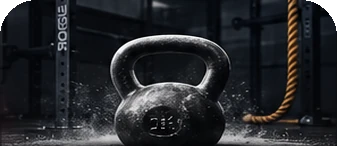
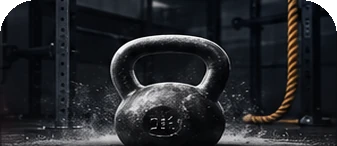
Carrera más natural en las figuras 3D y CrossFit sin la marca del rack
La carrera del lote 8 (en la calle, en la cinta, en cuesta y con chaleco) es ahora la de un trote de
verdad, como pidió el propietario: unas 162 zancadas por minuto (antes 133); el pie cae algo por
delante de la cadera con la rodilla apenas doblada; la cadera baja hasta media pisada y sube en el
vuelo; el pie despega por la punta muy por detrás con la pierna casi estirada; en el aire, el talón
sube hacia el glúteo, el muslo tira hacia delante y la pierna se estira antes de caer, volviendo un
poco hacia atrás a la velocidad del suelo. El recorrido del pie sale de los ángulos de cadera y rodilla
de una carrera suave. Los brazos van en el marco del tronco, con el codo más cerrado delante (la mano,
a la altura del pecho y algo hacia el centro) que detrás. La cadera se limita con las dos piernas
(al despegar daba un saltito). La marcha no cambia.

- src/fig3d/cardio3d.js: runGait, runHip y runArms nuevos; encuadres y huella rehechos.
- Comprobado con tools/figuras3d: verifica, choques, saltos y grosor, sin avisos en los 50 ejercicios.
- La ilustración de CrossFit de la librería, sin «ROGUE» en el poste del rack: tools/catalogo.py lo
  quita antes de comprimir.
- Documentación (figuras, desarrollo) y CHANGELOG.

Claude-Session: https://claude.ai/code/session_01HNdNhADazebudbtuCM24DN

Changed region(s): [[0.1484, 0.0274, 0.2077, 0.3562]]

diff --git a/src/fig3d/cardio3d.js b/src/fig3d/cardio3d.js
@@ -14,47 +14,84 @@
   const { cos, sin, PI, abs, max, min, sqrt, atan2, pow } = Math;
 
   /* ════ correr y andar ════ */
-  /* la zancada de carrera, en el sitio: cada pie apoya una parte de la vuelta (st) yendo hacia atrás bajo la cadera, de
-     z0 + S/2 a z0 - S/2, despega por la punta, sube por detrás (el talón hacia el glúteo) y vuelve adelante con la rodilla
-     arriba hasta caer otra vez con el medio del pie. Entre un apoyo y otro, los dos pies en el aire (la fase de vuelo).
-     slope: la pendiente del suelo (tan), que sube hacia delante; y0: la altura del suelo en z = 0 */
+  /* la zancada de carrera, en el sitio (como en una cinta), con las medidas de un trote de verdad: unas 160 zancadas por minuto
+     y cada pie en el suelo algo menos de dos quintos de la vuelta (st), así que entre un apoyo y otro van los dos en el aire.
+     El pie cae algo por delante de la cadera (zOn), con el medio del pie y la rodilla apenas doblada; va hacia atrás con el
+     suelo (S: lo que recorre apoyado) mientras la cadera baja hasta media pisada (la rodilla, a unos 40°) y vuelve a subir;
+     el talón se despega pasada la mitad y el pie sale por la punta muy por detrás, con la pierna casi estirada. En el aire, el
+     pie sigue un momento hacia atrás y sube por detrás hacia el glúteo (la rodilla, a unos 95°: el talón, a la altura de la
+     otra rodilla), el muslo tira hacia delante con la rodilla arriba y la pierna se estira por delante; antes de caer, el pie
+     vuelve un poco hacia atrás, a la velocidad del suelo, para no frenar. Las alturas del tobillo y su recorrido en el aire
+     salen de los ángulos de cadera y rodilla de una carrera suave (de la pierna de 89 + 84 del modelo); hk escala lo que sube
+     el talón. slope: la pendiente del suelo (tan), que sube hacia delante; y0: la altura del suelo en z = 0 */
+  const RUN_SWING = {
+    /* (en el aire, v de 0 a 1: el recorrido, en partes del de apoyo (0: donde despega; 1: donde cae); la altura del tobillo
+       sobre el suelo, y la inclinación del pie: la punta hacia abajo con el talón arriba, y plano al caer) */
+    f: [[.15, -.17], [.3, -.065], [.45, .2], [.6, .555], [.75, 1.02], [.9, 1.09]],
+    h: [[.15, 62], [.3, 92], [.45, 86], [.6, 55], [.75, 33], [.9, 23.5]],
+    p: [[0, 42], [.15, 66], [.3, 82], [.45, 74], [.6, 46], [.75, 16], [.9, -2], [1, 0]]
+  };
+  /* (curva de Hermite que pasa por los puntos K ([v, valor]), con la pendiente de Catmull-Rom dentro y las de los extremos que
+     se den: así el pie sale y llega a la velocidad que lleva) */
+  const hermPts = (v, K, m0, m1) => {
+    let i = 1; while (i < K.length - 1 && K[i][0] < v) i++;
+    const sl = j => j == 0 ? m0 : j == K.length - 1 ? m1 : (K[j + 1][1] - K[j - 1][1]) / (K[j + 1][0] - K[j - 1][0]);
+    const [x0, a] = K[i - 1], [x1, b] = K[i], h = x1 - x0;
+    return FL.herm((v - x0) / h, a, b, sl(i - 1) * h, sl(i) * h);
+  };
   const runGait = (t, o = {}) => {
-    const S = o.S ?? 76, w = o.w ?? 13, toe = o.toe ?? 4, st = o.st ?? .36, hk = o.hk ?? 46, z0 = o.z0 ?? 0, slope = o.slope ?? 0, y0 = o.y0 ?? 0;
-    const feet = {}, knee = {}, ank = {}, on = {};
+    const S = o.S ?? 120, zOn = o.zOn ?? 32, w = o.w ?? 10, toe = o.toe ?? 4, st = o.st ?? .38, hk = o.hk ?? 1, slope = o.slope ?? 0, y0 = o.y0 ?? 0;
+    const P_OFF = 42, feet = {}, knee = {}, ank = {}, on = {};
     for (const [s, ph] of [['L', 0], ['R', .5]]) {
       const u = ((t + ph) % 1 + 1) % 1, x = s == 'L' ? w : -w;
-      let z, lift, p;
-      if (u < st) { const v = u / st; z = z0 + S / 2 - S * v; lift = 0; p = v < .7 ? -3 + 6 * v : 1 + 44 * ((v - .7) / .3) ** 1.5; on[s] = true; }
+      let A, p;
+      if (u < st) {
+        /* (apoyado: el medio del pie, plano; pasada la mitad, el talón se levanta y el pie gira sobre la bola hasta despegar) */
+        const v = u / st;
+        p = v < .55 ? 0 : P_OFF * ((v - .55) / .45) ** 1.4;
+        A = FL.footPose(x, zOn - S * v, p); on[s] = true;
+      }
       else {
-        const v = (u - st) / (1 - st);
-        /* (el pie sale hacia atrás a la velocidad del suelo, vuelve por delante y llega frenando hacia atrás, a la misma
-           velocidad: sin cambios bruscos al despegar ni al apoyar) */
-        const m = -S * (1 - st) / st;
-        z = FL.herm(v, z0 - S / 2, z0 + S / 2, m, m);
-        lift = spl(v, [[0, 0], [.25, hk * .85], [.45, hk], [.75, hk * .45], [1, 0]]);
-        p = spl(v, [[0, 45], [.3, 40], [.7, 10], [1, -3]]);
+        const v = (u - st) / (1 - st), A0 = FL.footPose(x, zOn - S, P_OFF), dz = zOn - A0[2], m = -S * (1 - st) / st;
+        const z = hermPts(v, [[0, A0[2]], ...RUN_SWING.f.map(([k, f]) => [k, A0[2] + dz * f]), [1, zOn]], m, m);
+        const H = [[0, A0[1]], ...RUN_SWING.h.map(([k, y]) => [k, LEN.ankle + (y - LEN.ankle) * hk]), [1, LEN.ankle]];
+        p = spl(v, RUN_SWING.p);
+        A = [x, hermPts(v, H, (H[1][1] - H[0][1]) / H[1][0], (H[H.length - 1][1] - H[H.length - 2][1]) / (1 - H[H.length - 2][0])), z];
         on[s] = false;
       }
-      /* (el tobillo: sobre el suelo, que puede ir en cuesta, y siempre según la inclinación del pie: con el talón levantado, la
-         punta queda apoyada; en el aire, sigue igual, sin saltos al despegar) */
-      const yF = y0 + z * slope, A = FL.footPose(x, z, p);
-      feet[s] = [abs(x), A[2], toe, yF + lift + (A[1] - LEN.ankle), p]; knee[s] = [sin(RAD(toe)), 0, cos(RAD(toe))];
-      ank[s] = [x, yF + lift + A[1], A[2]];
+      /* (el tobillo, sobre el suelo, que puede ir en cuesta) */
+      const yF = y0 + A[2] * slope;
+      feet[s] = [abs(x), A[2], toe, yF + A[1] - LEN.ankle, p]; knee[s] = [sin(RAD(toe)), 0, cos(RAD(toe))];
+      ank[s] = [x, yF + A[1], A[2]];
     }
     return { feet, knee, ank, on };
   };
-  /* los brazos al correr: los codos doblados a 90° y las manos que van y vienen a la altura de la cintura, al revés que las
-     piernas */
+  /* la altura de la cadera al correr, en cada paso (ph: de 0, cuando cae un pie, a 1, cuando cae el otro): baja desde que cae
+     hasta media pisada, sube hasta que despega y algo más en el vuelo, y baja otra vez hasta caer. Sin estirar nunca del todo
+     la pierna que apoya (capRoot) */
+  const runHip = (ph, st, base) => {
+    const lo = .4 * st / .5, off = st / .5, fly = (off + 1) / 2;
+    return base + spl(ph, [[fly - 1, 5], [0, 2], [lo, -4], [off, 1.5], [fly, 5], [1, 2], [1 + lo, -4]]);
+  };
+  /* los brazos al correr: el hombro lleva el brazo adelante y atrás, al revés que la pierna de su lado, con el codo doblado:
+     más cerrado delante, donde la mano sube hasta la altura del pecho y algo hacia el centro (sin cruzarlo), y más abierto
+     detrás, donde la mano baja junto a la cadera. Todo en el marco del tronco, que se inclina y gira al revés que la cadera:
+     los brazos van con él. La muñeca, recta, en la línea del antebrazo, y las manos sueltas, a medio cerrar */
   const runArms = (F, q, t, amp = 1) => {
-    const o = { hands: {}, elbow: {} };
-    /* (cada brazo, al revés que su pierna y a la vez que ella: el izquierdo, atrás cuando el pie izquierdo apoya delante; la
-       mano sube hasta el pecho por delante y baja hasta la cadera por detrás, con el codo doblado) */
-    for (const [s, ph] of [['L', .5], ['R', 0]]) {
-      const a = cos(2 * PI * (t + ph)), S = shoulder(F, s, q);
-      o.hands[s] = add(S, sd(s, [-7 + 7 * max(0, -a), -96 + 22 * a * amp, 14 + 44 * a * amp]));
-      o.elbow[s] = [.25, -.3, -1];
+    const o = { hands: {}, elbow: {}, handDir: {} }, T = F.thorax, loc = v => add(add(mul(T.x, v[0]), mul(T.y, v[1])), mul(T.z, v[2]));
+    const LU = LEN.upper, LFG = LEN.fore + LEN.grip, ABD = RAD(10);
+    for (const [s, ph] of [['L', .42], ['R', .92]]) {
+      /* (a: 1 con el brazo delante, -1 detrás; el izquierdo llega delante cuando la pierna izquierda despega por detrás) */
+      const a = cos(2 * PI * (t - ph)), fw = max(0, a);
+      const th = RAD(-11 + 19 * a * amp), el = RAD(81 - 23 * a), inw = RAD(6 + 22 * fw), be = th + PI - el;
+      /* (el brazo, algo separado del costado; el antebrazo, girado hacia delante lo que se dobla el codo) */
+      const u = [sin(ABD), -cos(ABD) * cos(th), cos(ABD) * sin(th)], f = [-sin(inw), -cos(inw) * cos(be), cos(inw) * sin(be)];
+      const hand = add(mul(u, LU), mul(f, LFG));
+      o.hands[s] = add(shoulder(F, s, q), loc(sd(s, hand)));
+      o.handDir[s] = loc(sd(s, f));
+      o.elbow[s] = [.35, -.3, -1];
     }
-    return { ...o, fist: false, palm: both(() => [-1, 0, .2]), handDir: both(sd2 => norm(sd(sd2, [-.25, .15, 1]))) };
+    return { ...o, fist: false, palm: both(() => [-1, 0, .2]) };
   };
   /* andando: los brazos sueltos, casi estirados, al revés que las piernas */
   const walkArms = (F, q, t, amp = 1) => {
@@ -82,7 +119,10 @@
     const w = x => has(f, x), walk = w('walk'), tm = w('treadmill'), incline = w('incline'), pack = w('pack'), vest = w('vest');
     /* la pendiente: en la cinta, 7° (12 %); en la calle, una cuesta de 9° */
     const slope = incline ? Math.tan(RAD(tm ? 7 : 9)) : 0, y0 = tm ? TM_Y + 2 : 0;
-    const T = walk ? (pack ? 1500 : 1350) : 900;
+    /* (andando, una vuelta de 1,35 s (con mochila, 1,5 s); corriendo, de 0,74 s: unas 162 zancadas por minuto) */
+    const T = walk ? (pack ? 1500 : 1350) : 740;
+    /* (corriendo en cuesta: la zancada, algo más corta, y el pie cae más bajo la cadera; el talón sube algo menos) */
+    const RS = incline ? { S: 100, zOn: 26, st: .4, hk: .92 } : { S: 120, zOn: 32, st: .38, hk: 1 };
     const at_ = t => {
       const ph = 2 * PI * t;
       let g, ry;
@@ -94,21 +134,25 @@
         ry = hipOver(g.ank, ROOT_Y + y0 - 1);
       }
       else {
-        g = runGait(t, { S: incline ? 92 : 112, st: incline ? .4 : .36, hk: incline ? 46 : 56, slope, y0 });
-        /* (la cadera: más baja a mitad de cada apoyo, más alta en el vuelo; sin estirar nunca la pierna que apoya) */
-        const top = ROOT_Y + y0 - 8 + 5 * cos(4 * PI * (t - (.36 + (.5 - .36) / 2)));
-        const stance = ['L', 'R'].filter(s => g.on[s]).map(s => [g.ank[s], s == 'L' ? 20 : -20]);
-        ry = stance.length ? C.capRoot([0, top, 0], stance)[1] : top;
+        g = runGait(t, { ...RS, slope, y0 });
+        /* (la cadera: la de cada paso (runHip), más baja a media pisada y más alta en el vuelo; sin estirar nunca del todo la
+           pierna que apoya) */
+        const top = runHip(((t % .5) + .5) % .5 / .5, RS.st, ROOT_Y + y0 - 4);
+        /* (con las dos piernas, también la que va en el aire: si solo contara la que apoya, al despegar dejaba de contar de
+           golpe y la cadera daba un saltito) */
+        ry = C.capRoot([0, top, 0], [[g.ank.L, 20], [g.ank.R, -20]])[1];
       }
       /* (el tronco, algo adelante; más en cuesta y con mochila; gira un poco con cada zancada) */
-      const lean = (walk ? 2 : 7) + (incline ? 6 : 0) + (pack ? 6 : 0);
-      /* (la cadera gira con la pierna que va delante y los hombros, al revés, con el brazo) */
-      const c = cos(ph), q = { tt: t, feet: g.feet, knee: g.knee, root: [1.5 * sin(ph), ry, 0], tilt: lean, spine: walk ? 0 : 2, neck: -lean * .6, shrug: 2, reach: 2, yaw: -(walk ? 3 : 5) * c, twist: (walk ? 7 : 12) * c, roll: 1.5 * sin(ph) };
+      const lean = (walk ? 2 : 6) + (incline ? 6 : 0) + (pack ? 6 : 0);
+      /* (la cadera gira con la pierna que va delante y los hombros, al revés, con el brazo; corriendo, la pelvis va algo hacia
+         el pie que apoya y cae un poco del lado de la pierna en el aire; la cabeza, quieta y mirando al frente) */
+      const c = cos(ph), q = walk ? { tt: t, feet: g.feet, knee: g.knee, root: [1.5 * sin(ph), ry, 0], tilt: lean, spine: 0, neck: -lean * .6, shrug: 2, reach: 2, yaw: -3 * c, twist: 7 * c, roll: 1.5 * sin(ph) }
+        : { tt: t, feet: g.feet, knee: g.knee, root: [2.2 * sin(ph), ry, 0], tilt: lean, spine: 2, neck: -lean * .75, shrug: 1, reach: 2, yaw: -6 * cos(ph + .3), twist: 11 * cos(ph + .3), roll: 2.5 * sin(ph) };
       const { F } = pose({ ...q, hands: ZERO, elbow: {} });
       return { ...q, ...(walk ? walkArms(F, q, t, pack ? .6 : 1) : runArms(F, q, t)) };
     };
     /* (lo que corre el suelo, o la banda de la cinta, en una vuelta: lo que recorre el pie de apoyo) */
-    const V = walk ? (pack ? 92 : 104) / .62 : (incline ? 92 : 112) / (incline ? .4 : .36);
+    const V = walk ? (pack ? 92 : 104) / .62 : RS.S / RS.st;
     const gear = (q, F, cam) => {
       const out = [];
       if (tm) out.push(...treadmill(cam, slope), ...FL.floorRun(cam, q.tt, V, { z0: -30, half: 96, x: 30, y0: TM_Y + 4.4, slope, z: -1e6 + 1, n: max(2, Math.round(V / 48)) }));

diff --git a/src/js/data/figboxes.js b/src/js/data/figboxes.js
@@ -4,7 +4,7 @@
    dibujar cada figura trece veces para saber lo que ocupa. De cada ejercicio: el recuadro [x, y, ancho, alto] del gesto
    entero, el momento de la miniatura y su recuadro, el recuadro de las posturas quietas y los momentos de esas posturas. Va
    con el motor, en lo que se descarga al usarlo (core/lazy).
-   Huella de lo calculado: 464a8a6735614465cdc8
+   Huella de lo calculado: 319a07c798d03049bb2d
    Define: FIG_BOXES
 */
 export const FIG_BOXES = {
@@ -457,10 +457,10 @@ export const FIG_BOXES = {
   "Sandbag carry al hombro": [-67, -385, 159, 399, 0.667, -67, -384, 144, 397, -67, -384, 158, 398, 0, 0.292, 0.667],
   "Sandbag squat": [-75, -386, 170, 401, 1, -75, -258, 165, 273, -75, -386, 165, 401, 0, 1],
   "Bear hug carry": [-67, -385, 159, 399, 0.667, -67, -384, 156, 397, -67, -384, 158, 398, 0, 0.292, 0.667],
-  "Carrera 1 km": [-65, -383, 173, 394, 0.417, -62, -383, 163, 394, -62, -383, 163, 394, 0, 0.417, 0.708],
-  "Carrera 1 km con chaleco": [-65, -383, 173, 394, 0.417, -62, -383, 163, 394, -62, -383, 163, 394, 0, 0.417, 0.708],
-  "Carrera 1 km ritmo Hyrox": [-65, -383, 173, 394, 0.417, -62, -383, 163, 394, -62, -383, 163, 394, 0, 0.417, 0.708],
-  "Carrera 800 m tras estación": [-65, -383, 173, 394, 0.417, -62, -383, 163, 394, -62, -383, 163, 394, 0, 0.417, 0.708],
+  "Carrera 1 km": [-101, -384, 202, 394, 0.417, -88, -383, 176, 393, -101, -383, 193, 393, 0, 0.417, 0.708],
+  "Carrera 1 km con chaleco": [-101, -384, 202, 394, 0.417, -88, -383, 176, 393, -101, -383, 193, 393, 0, 0.417, 0.708],
+  "Carrera 1 km ritmo Hyrox": [-101, -384, 202, 394, 0.417, -88, -383, 176, 393, -101, -383, 193, 393, 0, 0.417, 0.708],
+  "Carrera 800 m tras estación": [-101, -384, 202, 394, 0.417, -88, -383, 176, 393, -101, -383, 193, 393, 0, 0.417, 0.708],
   "Bear crawl": [-165, -153, 299, 169, 0.625, -165, -153, 296, 168, -165, -153, 299, 168, 0, 0.625, 0.833],
   "Dead bug": [-280, -231, 470, 295, 0.208, -223, -191, 413, 255, -280, -231, 470, 295, 0, 0.208, 0.708],
   "Mountain climbers": [-288, -161, 358, 176, 0.333, -282, -161, 352, 176, -282, -161, 352, 176, 0, 0.208, 0.333],
@@ -490,20 +490,20 @@ export const FIG_BOXES = {
   "TRX curl": [-207, -494, 374, 505, 1, -104, -494, 271, 505, -207, -494, 374, 505, 0, 1],
   "Remo con banda de pie": [-59, -379, 287, 399, 1, -59, -377, 287, 397, -59, -379, 287, 399, 0, 1],
   "Press con banda de pie": [-157, -372, 307, 388, 1, -157, -372, 243, 388, -157, -372, 307, 388, 0, 1],
-  "Carrera continua": [-65, -383, 173, 394, 0.417, -62, -383, 163, 394, -62, -383, 163, 394, 0, 0.417, 0.708],
-  "Intervalos 400 m": [-65, -383, 173, 394, 0.417, -62, -383, 163, 394, -62, -383, 163, 394, 0, 0.417, 0.708],
-  "Series 1 km": [-65, -383, 173, 394, 0.417, -62, -383, 163, 394, -62, -383, 163, 394, 0, 0.417, 0.708],
-  "Tempo run": [-65, -383, 173, 394, 0.417, -62, -383, 163, 394, -62, -383, 163, 394, 0, 0.417, 0.708],
-  "Cuestas": [-161, -379, 322, 407, 0.5, -161, -377, 322, 405, -161, -377, 322, 405, 0, 0.25, 0.5],
-  "Fartlek": [-65, -383, 173, 394, 0.417, -62, -383, 163, 394, -62, -383, 163, 394, 0, 0.417, 0.708],
-  "Rodaje suave zona 2": [-65, -383, 173, 394, 0.417, -62, -383, 163, 394, -62, -383, 163, 394, 0, 0.417, 0.708],
-  "Carrera por tempo": [-65, -383, 173, 394, 0.417, -62, -383, 163, 394, -62, -383, 163, 394, 0, 0.417, 0.708],
-  "Series 800 m": [-65, -383, 173, 394, 0.417, -62, -383, 163, 394, -62, -383, 163, 394, 0, 0.417, 0.708],
-  "Series 200 m": [-65, -383, 173, 394, 0.417, -62, -383, 163, 394, -62, -383, 163, 394, 0, 0.417, 0.708],
-  "Rodaje largo": [-65, -383, 173, 394, 0.417, -62, -383, 163, 394, -62, -383, 163, 394, 0, 0.417, 0.708],
-  "Progresivos": [-65, -383, 173, 394, 0.417, -62, -383, 163, 394, -62, -383, 163, 394, 0, 0.417, 0.708],
-  "Trote en cinta": [-141, -398, 253, 409, 0.417, -141, -397, 253, 408, -141, -397, 253, 408, 0, 0.417, 0.708],
-  "Cuestas en cinta": [-141, -394, 261, 410, 0.5, -141, -392, 261, 408, -141, -392, 261, 408, 0, 0.25, 0.5],
+  "Carrera continua": [-101, -384, 202, 394, 0.417, -88, -383, 176, 393, -101, -383, 193, 393, 0, 0.417, 0.708],
+  "Intervalos 400 m": [-101, -384, 202, 394, 0.417, -88, -383, 176, 393, -101, -383, 193, 393, 0, 0.417, 0.708],
+  "Series 1 km": [-101, -384, 202, 394, 0.417, -88, -383, 176, 393, -101, -383, 193, 393, 0, 0.417, 0.708],
+  "Tempo run": [-101, -384, 202, 394, 0.417, -88, -383, 176, 393, -101, -383, 193, 393, 0, 0.417, 0.708],
+  "Cuestas": [-161, -381, 322, 409, 0.417, -161, -378, 322, 406, -161, -380, 322, 408, 0, 0.417, 0.708],
+  "Fartlek": [-101, -384, 202, 394, 0.417, -88, -383, 176, 393, -101, -383, 193, 393, 0, 0.417, 0.708],
+  "Rodaje suave zona 2": [-101, -384, 202, 394, 0.417, -88, -383, 176, 393, -101, -383, 193, 393, 0, 0.417, 0.708],
+  "Carrera por tempo": [-101, -384, 202, 394, 0.417, -88, -383, 176, 393, -101, -383, 193, 393, 0, 0.417, 0.708],
+  "Series 800 m": [-101, -384, 202, 394, 0.417, -88, -383, 176, 393, -101, -383, 193, 393, 0, 0.417, 0.708],
+  "Series 200 m": [-101, -384, 202, 394, 0.417, -88, -383, 176, 393, -101, -383, 193, 393, 0, 0.417, 0.708],
+  "Rodaje largo": [-101, -384, 202, 394, 0.417, -88, -383, 176, 393, -101, -383, 193, 393, 0, 0.417, 0.708],
+  "Progresivos": [-101, -384, 202, 394, 0.417, -88, -383, 176, 393, -101, -383, 193, 393, 0, 0.417, 0.708],
+  "Trote en cinta": [-141, -399, 253, 409, 0.417, -141, -398, 253, 408, -141, -398, 253, 408, 0, 0.417, 0.708],
+  "Cuestas en cinta": [-141, -395, 252, 411, 0.417, -141, -395, 252, 411, -141, -395, 252, 411, 0, 0.417, 0.708],
   "Remo ergómetro": [-311, -298, 469, 314, 0.375, -311, -292, 469, 308, -311, -292, 469, 308, 0, 0.375],
   "Bicicleta": [-96, -378, 251, 391, 0.583, -96, -378, 251, 391, -96, -378, 251, 391, 0, 0.292, 0.583],
   "Elíptica": [-160, -411, 359, 428, 0.5, -160, -409, 359, 426, -160, -409, 359, 426, 0, 0.5],

diff --git a/src/js/data/figstamp.js b/src/js/data/figstamp.js
@@ -4,4 +4,4 @@
    miniaturas que dibuja (extras/pictures) y, mientras sea la misma, no las vuelve a dibujar aunque se actualice.
    Define: FIG_STAMP
 */
-export const FIG_STAMP = '464a8a6735614465cdc8';
+export const FIG_STAMP = '319a07c798d03049bb2d';

diff --git a/tools/catalogo.py b/tools/catalogo.py
@@ -11,6 +11,7 @@ Escribe en src/img/catalog, por cada grupo que nombra src/js/data/catalog.js:
 - <id>-icono.webp: su icono rojo, sin pérdida, centrado en un lienzo transparente de su ancho y del alto del más alto
   (ICON_H): con una sola altura en el CSS, todos salen a la misma escala, como en la referencia, y cada uno con su ancho. En
   la app hace de máscara: su color es el de la app (library/catalog), no el rojo del archivo.
+Retoques que pidió el propietario (RETOUCH), antes de comprimir: en la de CrossFit se quita la marca «ROGUE» del poste del rack.
 Comprueba que el tamaño de cada ilustración es el que dicen catalogo.json y data/catalog.js. El paquete no hace falta en el
 repositorio (sus tarjetas y referencias, con texto impreso, son solo para comparar).
 Requiere Pillow.
@@ -23,6 +24,23 @@ OUT = os.path.join(ROOT, 'src', 'img', 'catalog')
 DATA = os.path.join(ROOT, 'src', 'js', 'data', 'catalog.js')
 ICON_H = 54        # el alto del lienzo de los iconos: el del más alto (Gemelos)
 QUALITY = 90
+
+
+def sin_marca(im):
+    """CrossFit: quita «ROGUE», escrito a lo largo del poste izquierdo del rack (columnas 56 a 67, filas 1 a 54). Cada fila se
+    cambia por la del mismo poste 55 filas más abajo, que está limpia: los agujeros del poste van cada 11 filas, así que
+    quedan también en su sitio y el poste sigue igual hasta arriba. Las dos primeras y las dos últimas filas se funden con
+    lo que hay, para que no se note el corte."""
+    px = im.load()
+    for y in range(1, 55):
+        w = min(1, y / 3, (55 - y) / 3)
+        for x in range(56, 68):
+            a, b = px[x, y], px[x, y + 55]
+            px[x, y] = tuple(round(a[i] * (1 - w) + b[i] * w) for i in range(4))
+    return im
+
+
+RETOUCH = {'crossfit': sin_marca}
 
 
 def catalog():
@@ -42,6 +60,8 @@ def main(pack):
     size = 0
     for k, (w, h, iw) in want.items():
         art = Image.open(os.path.join(pack, cat[k]['artwork'])).convert('RGBA')
+        if k in RETOUCH:
+            art = RETOUCH[k](art)
         ref = cat[k]['artworkSize']
         if art.size != (w, h) or art.size != (ref['width'], ref['height']):
             sys.exit('%s: la ilustración mide %s; data/catalog.js dice %s y catalogo.json %s' % (k, art.size, (w, h), ref))

diff --git a/CHANGELOG.md b/CHANGELOG.md
@@ -72,6 +72,20 @@ El formato se inspira en [Keep a Changelog](https://keepachangelog.com/es-ES/1.1
 - Inicio de sesión: el logo llena su marco.
 
 ### Interno
+- Figuras 3D: la carrera, rehecha para que sea la de un trote de verdad (`src/fig3d/cardio3d.js`: `runGait`, `runHip` y
+  `runArms`), en todo lo que es correr del lote 8 (en la calle, en la cinta, en cuesta y con chaleco; la marcha, igual). Unas
+  162 zancadas por minuto (antes 133); el pie cae algo por delante de la cadera con la rodilla apenas doblada, la cadera baja
+  hasta media pisada (la rodilla, a unos 40°) y sube en el vuelo, y el pie despega por la punta muy por detrás con la pierna
+  casi estirada; en el aire, el talón sube hacia el glúteo (la rodilla, a unos 105°), el muslo tira hacia delante y la
+  pierna se estira antes de caer, volviendo un poco hacia atrás a la velocidad del suelo. El recorrido del pie en el aire
+  sale de los ángulos de cadera y rodilla de una carrera suave. Antes iba agachada, con las rodillas siempre dobladas y el pie
+  subiendo en medio, como marcando el paso. Los brazos, en el marco del tronco, con el codo más cerrado delante (la mano, a la
+  altura del pecho y algo hacia el centro) que detrás (junto a la cadera); antes, el antebrazo iba horizontal hacia delante.
+  La cadera se limita con las dos piernas (al despegar daba un saltito). Comprobado con las herramientas de
+  `tools/figuras3d` (sin manos que no llegan, choques, saltos ni material dentro de las piernas) y encuadres rehechos.
+- Librería: en la ilustración de CrossFit ya no se ve la marca «ROGUE» del poste del rack, como pidió el propietario:
+  `tools/catalogo.py` la quita antes de comprimir (cada fila del poste, por la de 55 filas más abajo, limpia, con los
+  agujeros en su sitio).
 - Librería: los grupos en tarjetas (`library/catalog`), con el diseño que aprobó el propietario (`StrataFit_Catalogo`): una
   sola tarjeta para todos, desde `data/catalog` (cada grupo de siempre, sin cambiarle el nombre, con el id de sus imágenes),
   y cada una abre su grupo como antes (`libraryGroup`). Las ilustraciones y los iconos del paquete los prepara

diff --git a/docs/tecnica/figuras.md b/docs/tecnica/figuras.md
@@ -22,6 +22,13 @@ por lotes de ejercicios antes de entrar en la app (ver [Revisión](#revisión)).
   turca) pasa por sus posturas; una postura que se mantiene (una plancha, colgarse de la barra) respira.
 - Lo que **se desplaza** (correr, empujar el trineo, gatear, los acarreos) lo hace en el sitio, como en una cinta: el suelo
   corre bajo los pies, y en la cinta, su banda.
+- La **carrera** es la de un trote de verdad: unas 160 zancadas por minuto; el pie cae algo por delante de la cadera, con el
+  medio del pie y la rodilla apenas doblada; la cadera baja hasta media pisada y sube en el vuelo, con los dos pies en el
+  aire entre un apoyo y otro; el pie despega por la punta muy por detrás, con la pierna casi estirada, y en el aire el talón
+  sube hacia el glúteo, la rodilla tira hacia delante y la pierna se estira antes de caer. Los brazos van al revés que las
+  piernas, con el codo más cerrado delante (la mano, a la altura del pecho y algo hacia el centro) que detrás (junto a la
+  cadera). Las alturas y el recorrido del pie salen de los ángulos de cadera y rodilla de una carrera suave
+  (`src/fig3d/cardio3d.js`, `runGait`).
 - Con **«Reducir animaciones»** (Ajustes) o si el móvil pide menos movimiento, la figura no se mueve: salen sus posturas una
   junto a otra. En un gesto de ida y vuelta, «Inicio» y «Final»; en uno con su propio reloj, sus posturas más distintas,
   hasta tres y por orden (los dos pasos de la carrera, el burpee de pie, en el suelo y en el salto), o una sola si casi no se

diff --git a/docs/tecnica/desarrollo.md b/docs/tecnica/desarrollo.md
@@ -131,7 +131,8 @@ un ejercicio están en `src/js/data/aliases.js`.
   `src/js/workout/equipmap.js`. `build.py` los mete en `data/media` (`MEDIA.equip`) y falla si un icono que nombra
   `data/equipment` no está; `tests/equipment.test.mjs` comprueba el material de toda la librería y los archivos.
 - Imágenes de las tarjetas de la librería (`library/catalog`): `src/img/catalog/`, del paquete del rediseño que aprobó el
-  propietario (`StrataFit_Catalogo`). `python3 tools/catalogo.py carpeta-del-paquete` pasa cada ilustración a WebP con pérdida
+  propietario (`StrataFit_Catalogo`). `python3 tools/catalogo.py carpeta-del-paquete` retoca la de CrossFit (le quita la
+  marca «ROGUE» del rack, como pidió el propietario) y pasa cada ilustración a WebP con pérdida
   de calidad 90 (las 14, de 732 KB a unos 120 KB, sin diferencia visible) y cada icono rojo a WebP sin pérdida, en un lienzo de
   54 px de alto, para que en el CSS lleven todos la misma altura y salgan a la escala de la referencia. El icono hace de máscara
   (`mask-image`, en su `data-style`): su color lo pone el CSS, el de la app sobre fondo oscuro (`--acd`, que calcula
